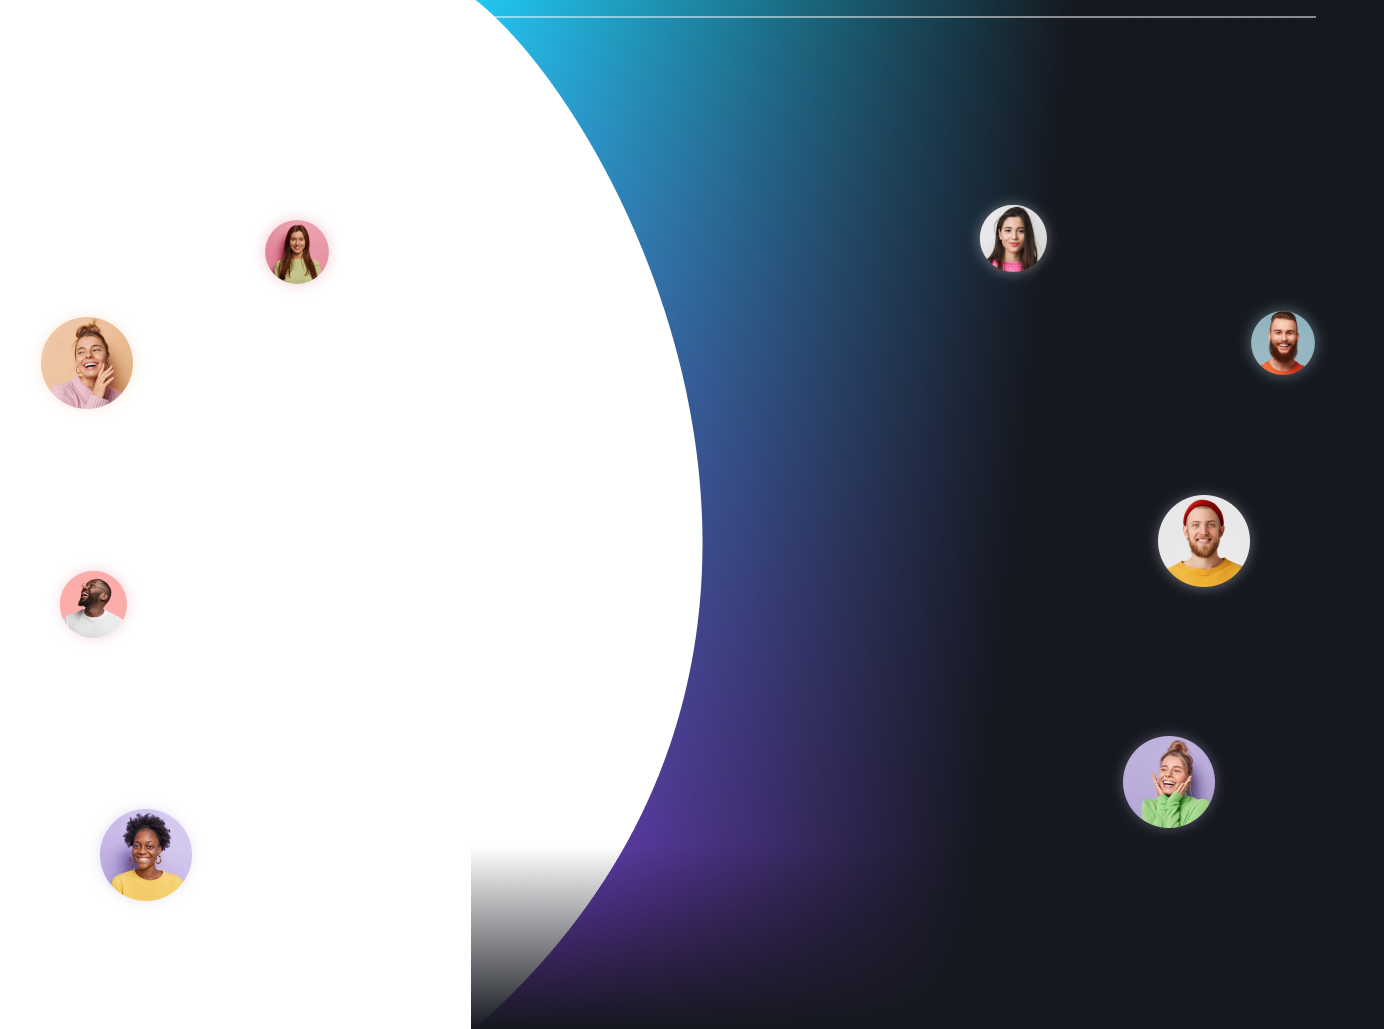
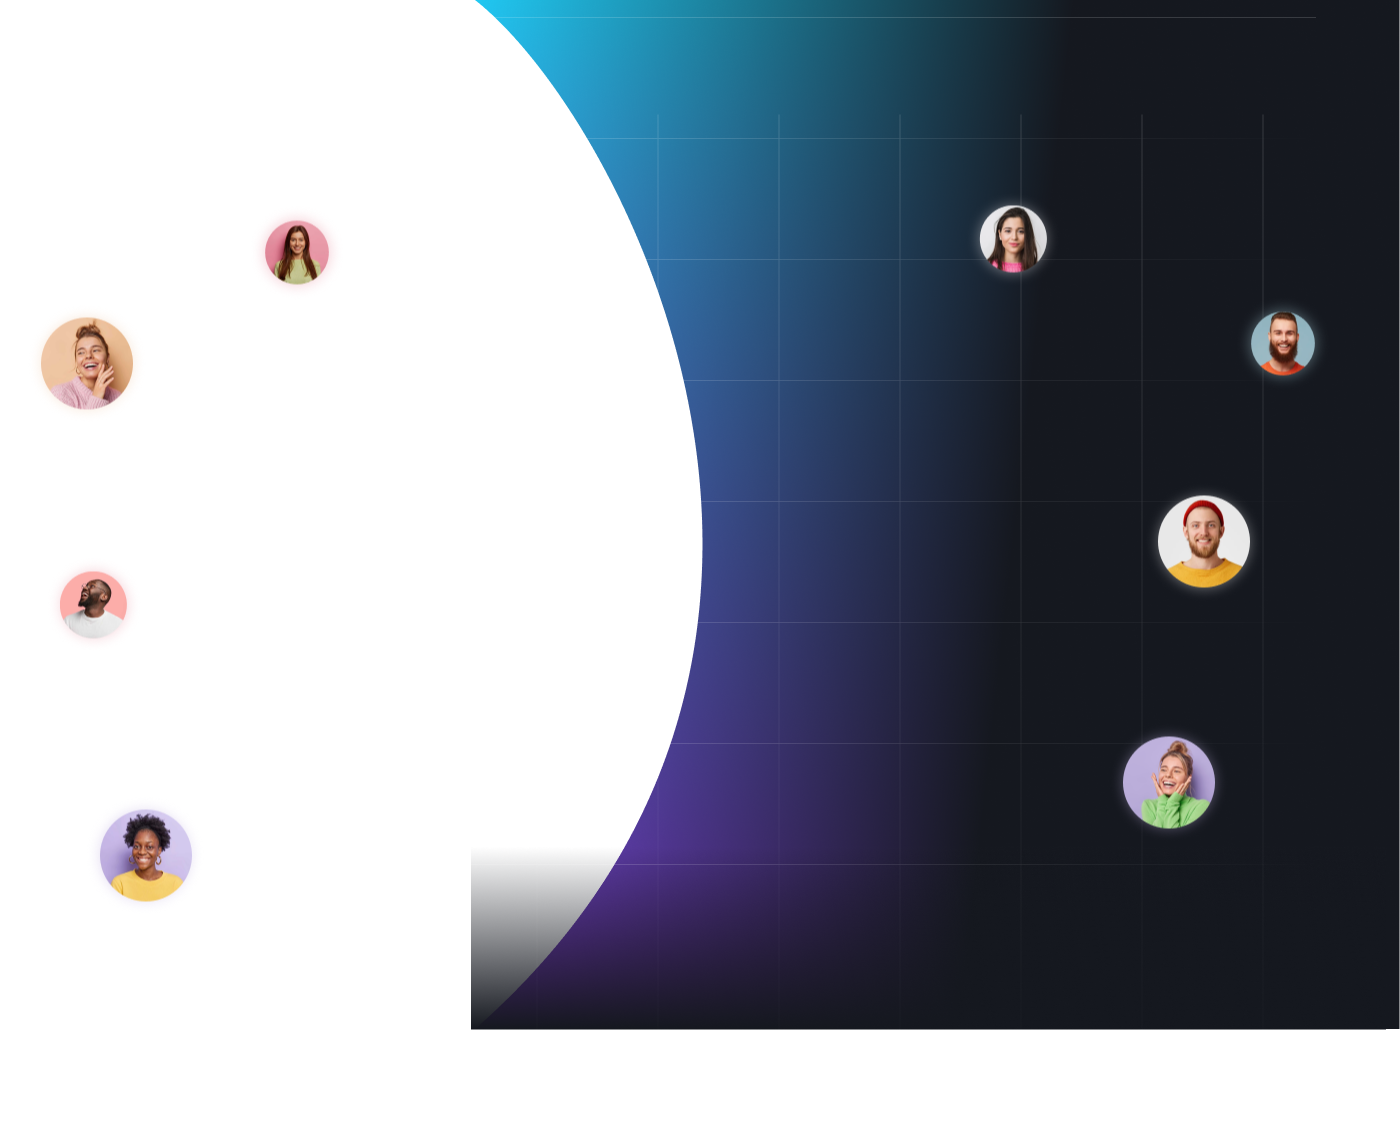
saved

diff --git a/app/components/heroSection/heroSection.css b/app/components/heroSection/heroSection.css
@@ -3,9 +3,9 @@
 .light .hero-section {
     position: relative;
     height: 100vh;
-    background: url(/lightHero.png);
+    background: url(/hero.png);
     background-size: cover;
-    background-position: center;
+    background-position: top;
     display: flex;
     justify-content:center;
     align-items:center;
@@ -14,9 +14,9 @@
 .dark .hero-section {
     position: relative;
     height: 100vh;
-    background: url(/hero2.png);
+    background: url(/hero.png);
     background-size: cover;
-    background-position: center;
+    background-position: top;
     display: flex;
     justify-content:center;
     align-items:center;
